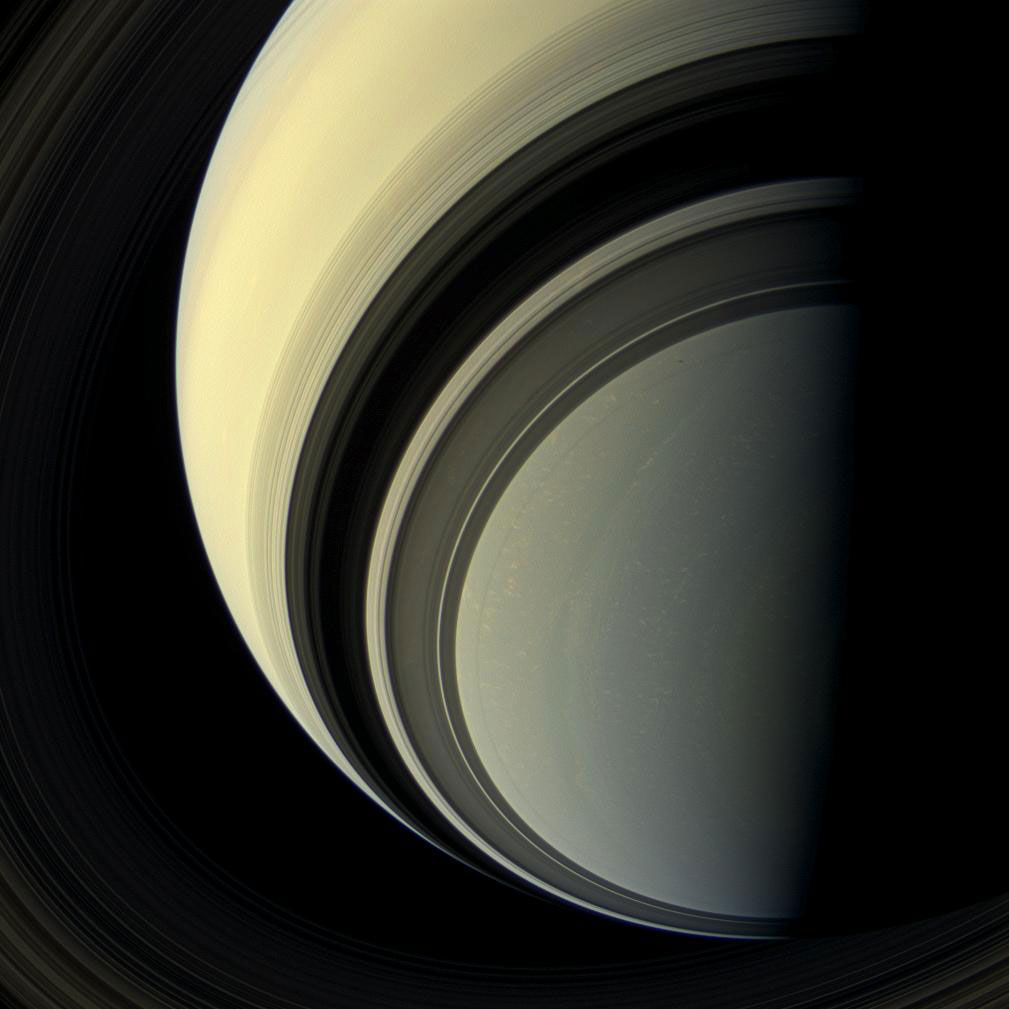
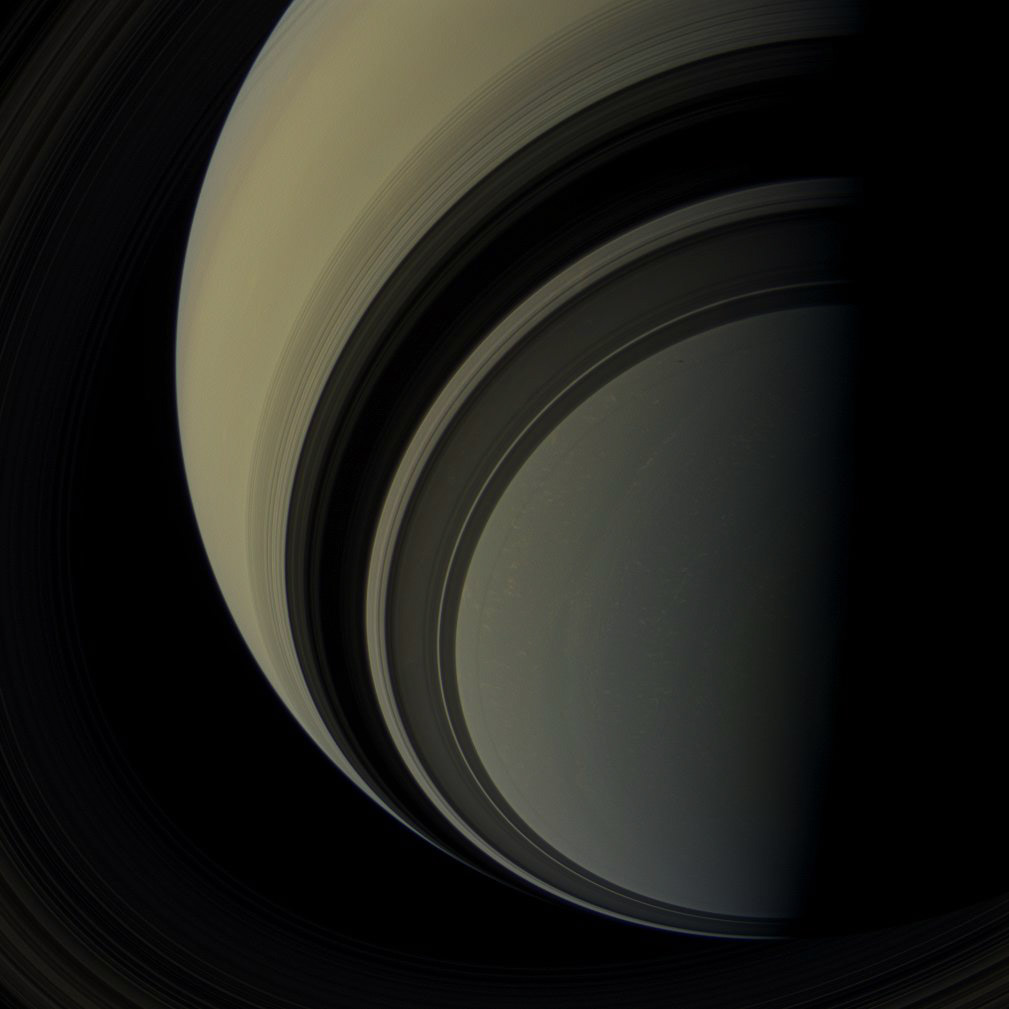
updating imprint and saturn photo

diff --git a/assets/css/base.css b/assets/css/base.css
@@ -2533,11 +2533,12 @@ time, sup, header h2 span, .global span, h1 span {
 .imprint {
   border-top: 1px solid #444444;
   clear: both;
-  background: url(../img/space/saturn.jpg); }
+  background-image: url(../img/space/saturn.jpg);
+  background-color: #000;
+  background-repeat: no-repeat; }
   .imprint .inner {
     padding: 2em 2em 3em 2em;
-    color: #EFEFEF;
-    background: rgba(0, 0, 0, 0.5); }
+    color: #EFEFEF; }
   .imprint h2, .imprint .meta {
     margin-bottom: .2em;
     text-transform: uppercase;
@@ -2572,7 +2573,7 @@ time, sup, header h2 span, .global span, h1 span {
       top: 0;
       bottom: 0;
       border-top: none;
-      border-right: 1px solid #444444; }
+      border-right: 0.5em solid rgba(0, 0, 0, 0.2); }
       .imprint img {
         display: block;
         float: none;

diff --git a/assets/scss/_global.scss b/assets/scss/_global.scss
@@ -267,12 +267,13 @@ time, sup, header h2 span,.global span, h1 span {
 .imprint {
   border-top: 1px solid #444;
   clear: both;
-  //background: lighten($anchor, 65%);
-  background: url(../img/space/saturn.jpg);
+  background-image: url(../img/space/saturn.jpg);
+  background-color: #000;
+  background-repeat: no-repeat;
   .inner {
     padding: 2em 2em 3em 2em;
     color: #EFEFEF;
-    background: transparentize( #000, .5);
+    //background: transparentize( #000, .5);
   }
   h2, .meta {
     margin-bottom: .2em;
@@ -317,7 +318,7 @@ time, sup, header h2 span,.global span, h1 span {
     top: 0;
     bottom: 0;
     border-top: none;
-    border-right: 1px solid #444;
+    border-right: .5em solid transparentize( #000, .8);
     img {
       display: block;
       float: none;
